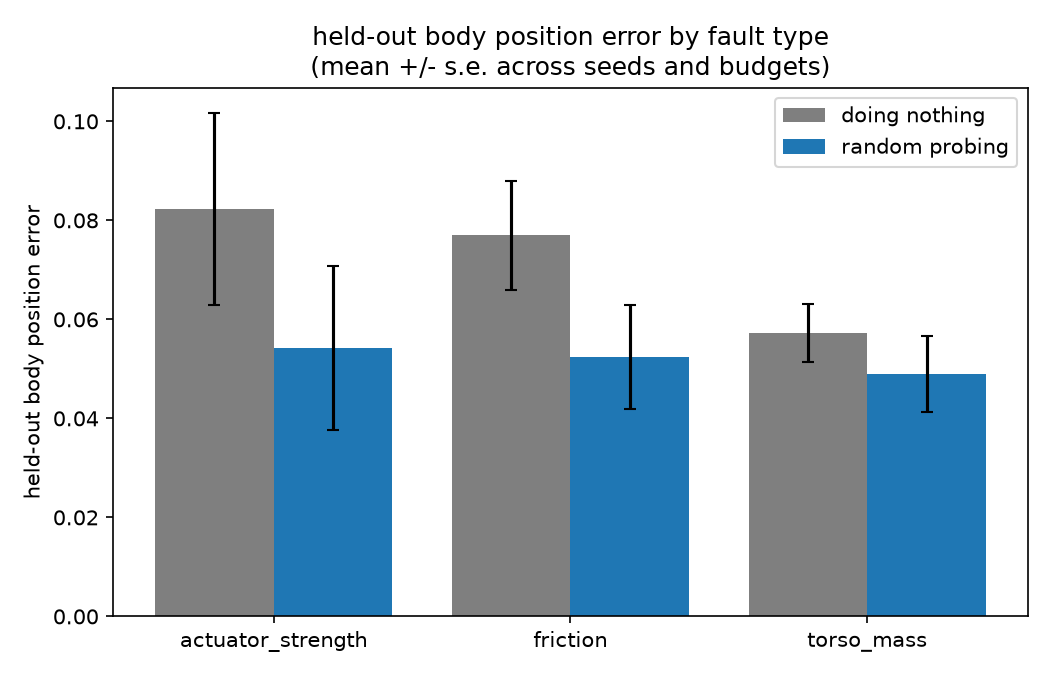
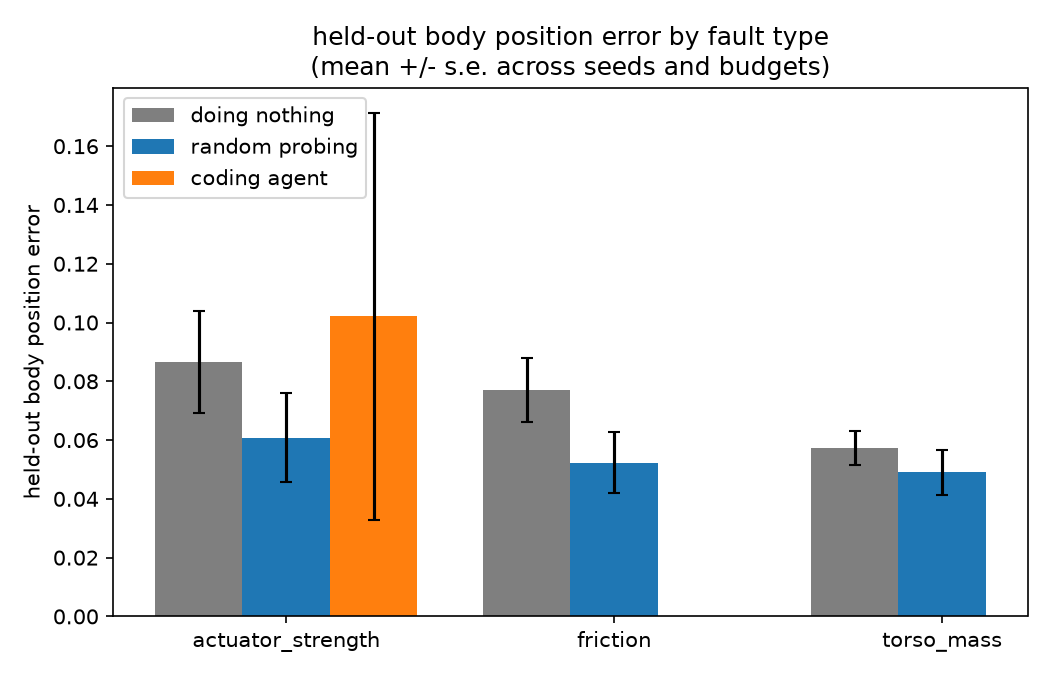
add coding agent to the charts

diff --git a/report/index.html b/report/index.html
@@ -5,18 +5,36 @@
 
 <style>
   :root {
-    --bg: #14181a;
-    --ink: #e9ede6;
-    --muted: #9aa398;
-    --line: #313830;
-    --accent: #ff8f4d;
+    --bg: #eef1ec;
+    --ink: #1a2420;
+    --muted: #5c655c;
+    --line: #d2d8cb;
+    --accent: #b34e08;
     --code-bg: #1e2420;
     --code-ink: #e6e9e3;
     --code-comment: #7fa88a;
   }
 
+  @media (prefers-color-scheme: dark) {
+    :root:not([data-theme="light"]) {
+      --bg: #14181a;
+      --ink: #e9ede6;
+      --muted: #9aa398;
+      --line: #313830;
+      --accent: #ff8f4d;
+    }
+  }
+
+  :root[data-theme="dark"] {
+    --bg: #14181a;
+    --ink: #e9ede6;
+    --muted: #9aa398;
+    --line: #313830;
+    --accent: #ff8f4d;
+  }
+
   * { box-sizing: border-box; }
-  html { color-scheme: dark; }
+  html { color-scheme: light dark; }
 
   body {
     margin: 0;
@@ -275,12 +293,12 @@ def policy(t, obs):
 
     <div class="chart-row">
       <figure class="on-white">
-        <img src="plots/held_out_error_vs_budget.png" alt="Line chart: held-out body position error vs experiment budget, comparing doing nothing against random probing.">
-        <figcaption>Fig. 1: error after seeing new movements, by how many tests were allowed. Lower is better.</figcaption>
+        <img src="plots/held_out_error_vs_budget.png" alt="Line chart: held-out body position error vs experiment budget, comparing doing nothing, random probing, and the coding agent.">
+        <figcaption>Fig. 1: error after seeing new movements, by how many tests were allowed. Lower is better. The coding agent only has a budget=8 point, from 3 episodes, hence the wide error bar.</figcaption>
       </figure>
       <figure class="on-white">
-        <img src="plots/error_by_fault_type.png" alt="Bar chart: held-out body position error by fault type, comparing doing nothing against random probing.">
-        <figcaption>Fig. 2: same comparison, split by what actually broke.</figcaption>
+        <img src="plots/error_by_fault_type.png" alt="Bar chart: held-out body position error by fault type, comparing doing nothing, random probing, and the coding agent.">
+        <figcaption>Fig. 2: same comparison, split by what actually broke. The coding agent only ran against actuator faults so far.</figcaption>
       </figure>
     </div>
 
@@ -301,8 +319,8 @@ def policy(t, obs):
     </p>
 
     <figure class="on-white" style="max-width: 420px;">
-      <img src="plots/param_error_vs_budget.png" alt="Line chart: parameter estimation error vs experiment budget.">
-      <figcaption>Fig. 3: how close the guessed cause is to the true cause, by test budget.</figcaption>
+      <img src="plots/param_error_vs_budget.png" alt="Line chart: parameter estimation error vs experiment budget, including the coding agent.">
+      <figcaption>Fig. 3: how close the guessed cause is to the true cause, by test budget. The coding agent's actual fault diagnosis is the best of the three, even in the runs where it lost on held-out error.</figcaption>
     </figure>
 
     <h3>B. The coding agent, 5 real runs</h3>
